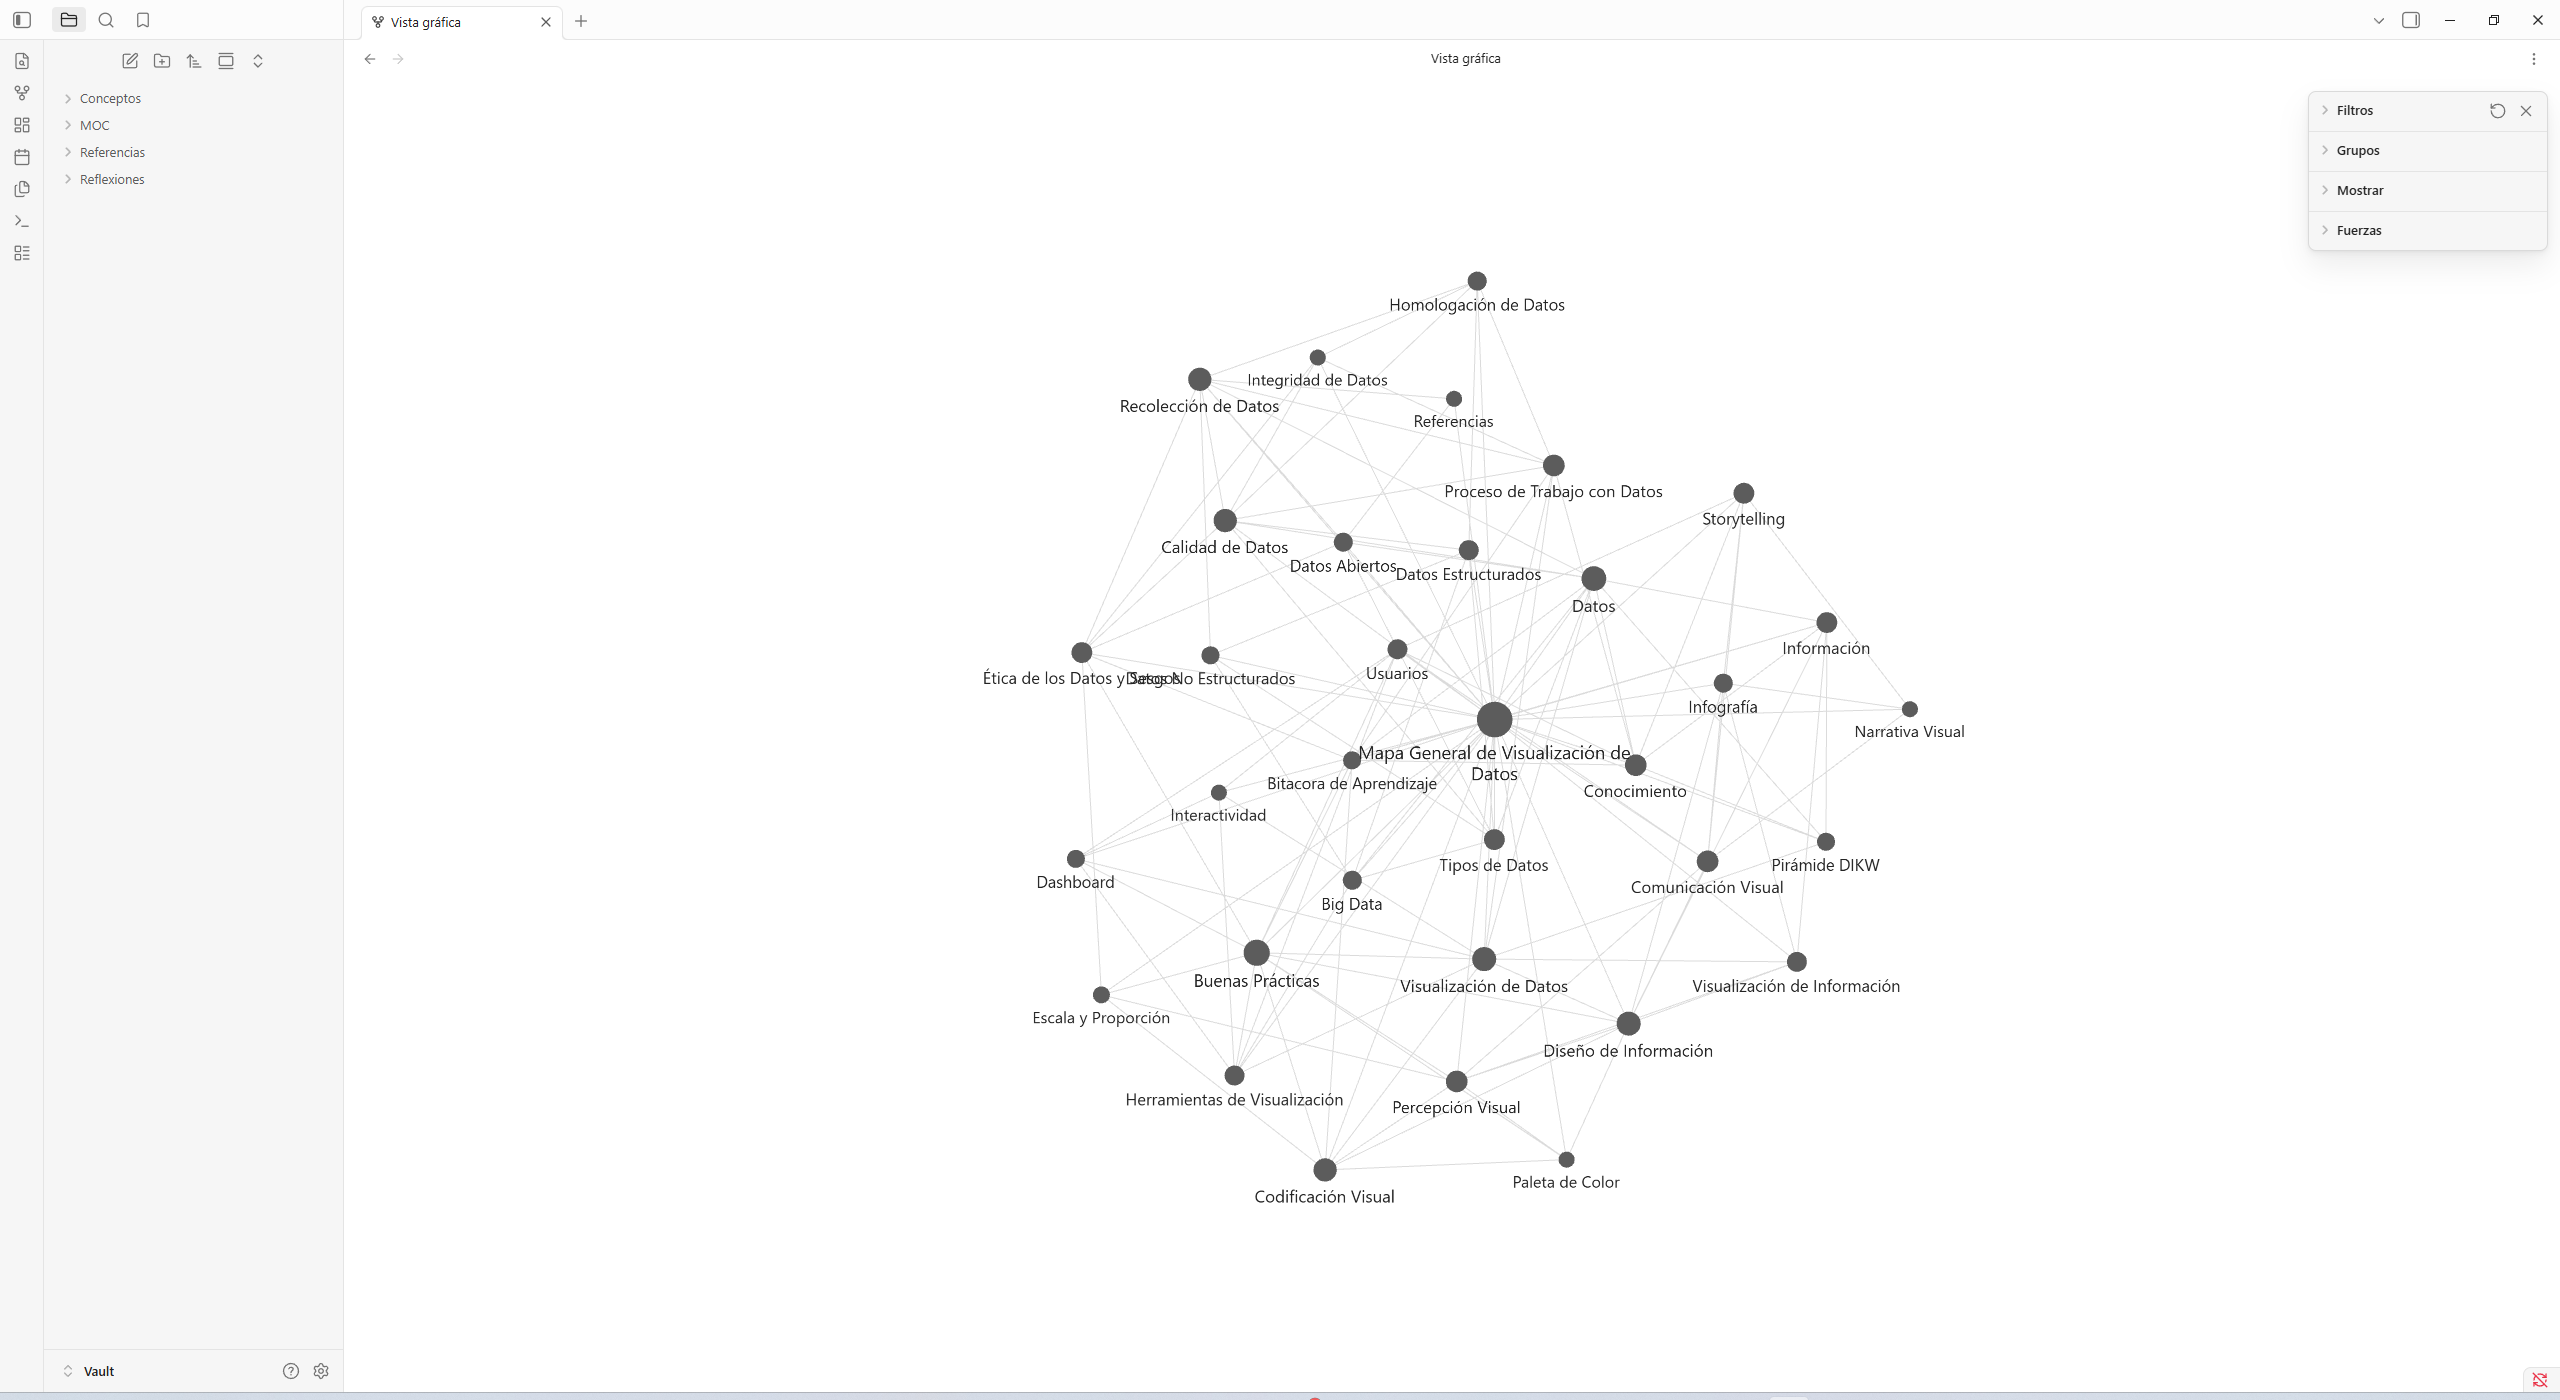
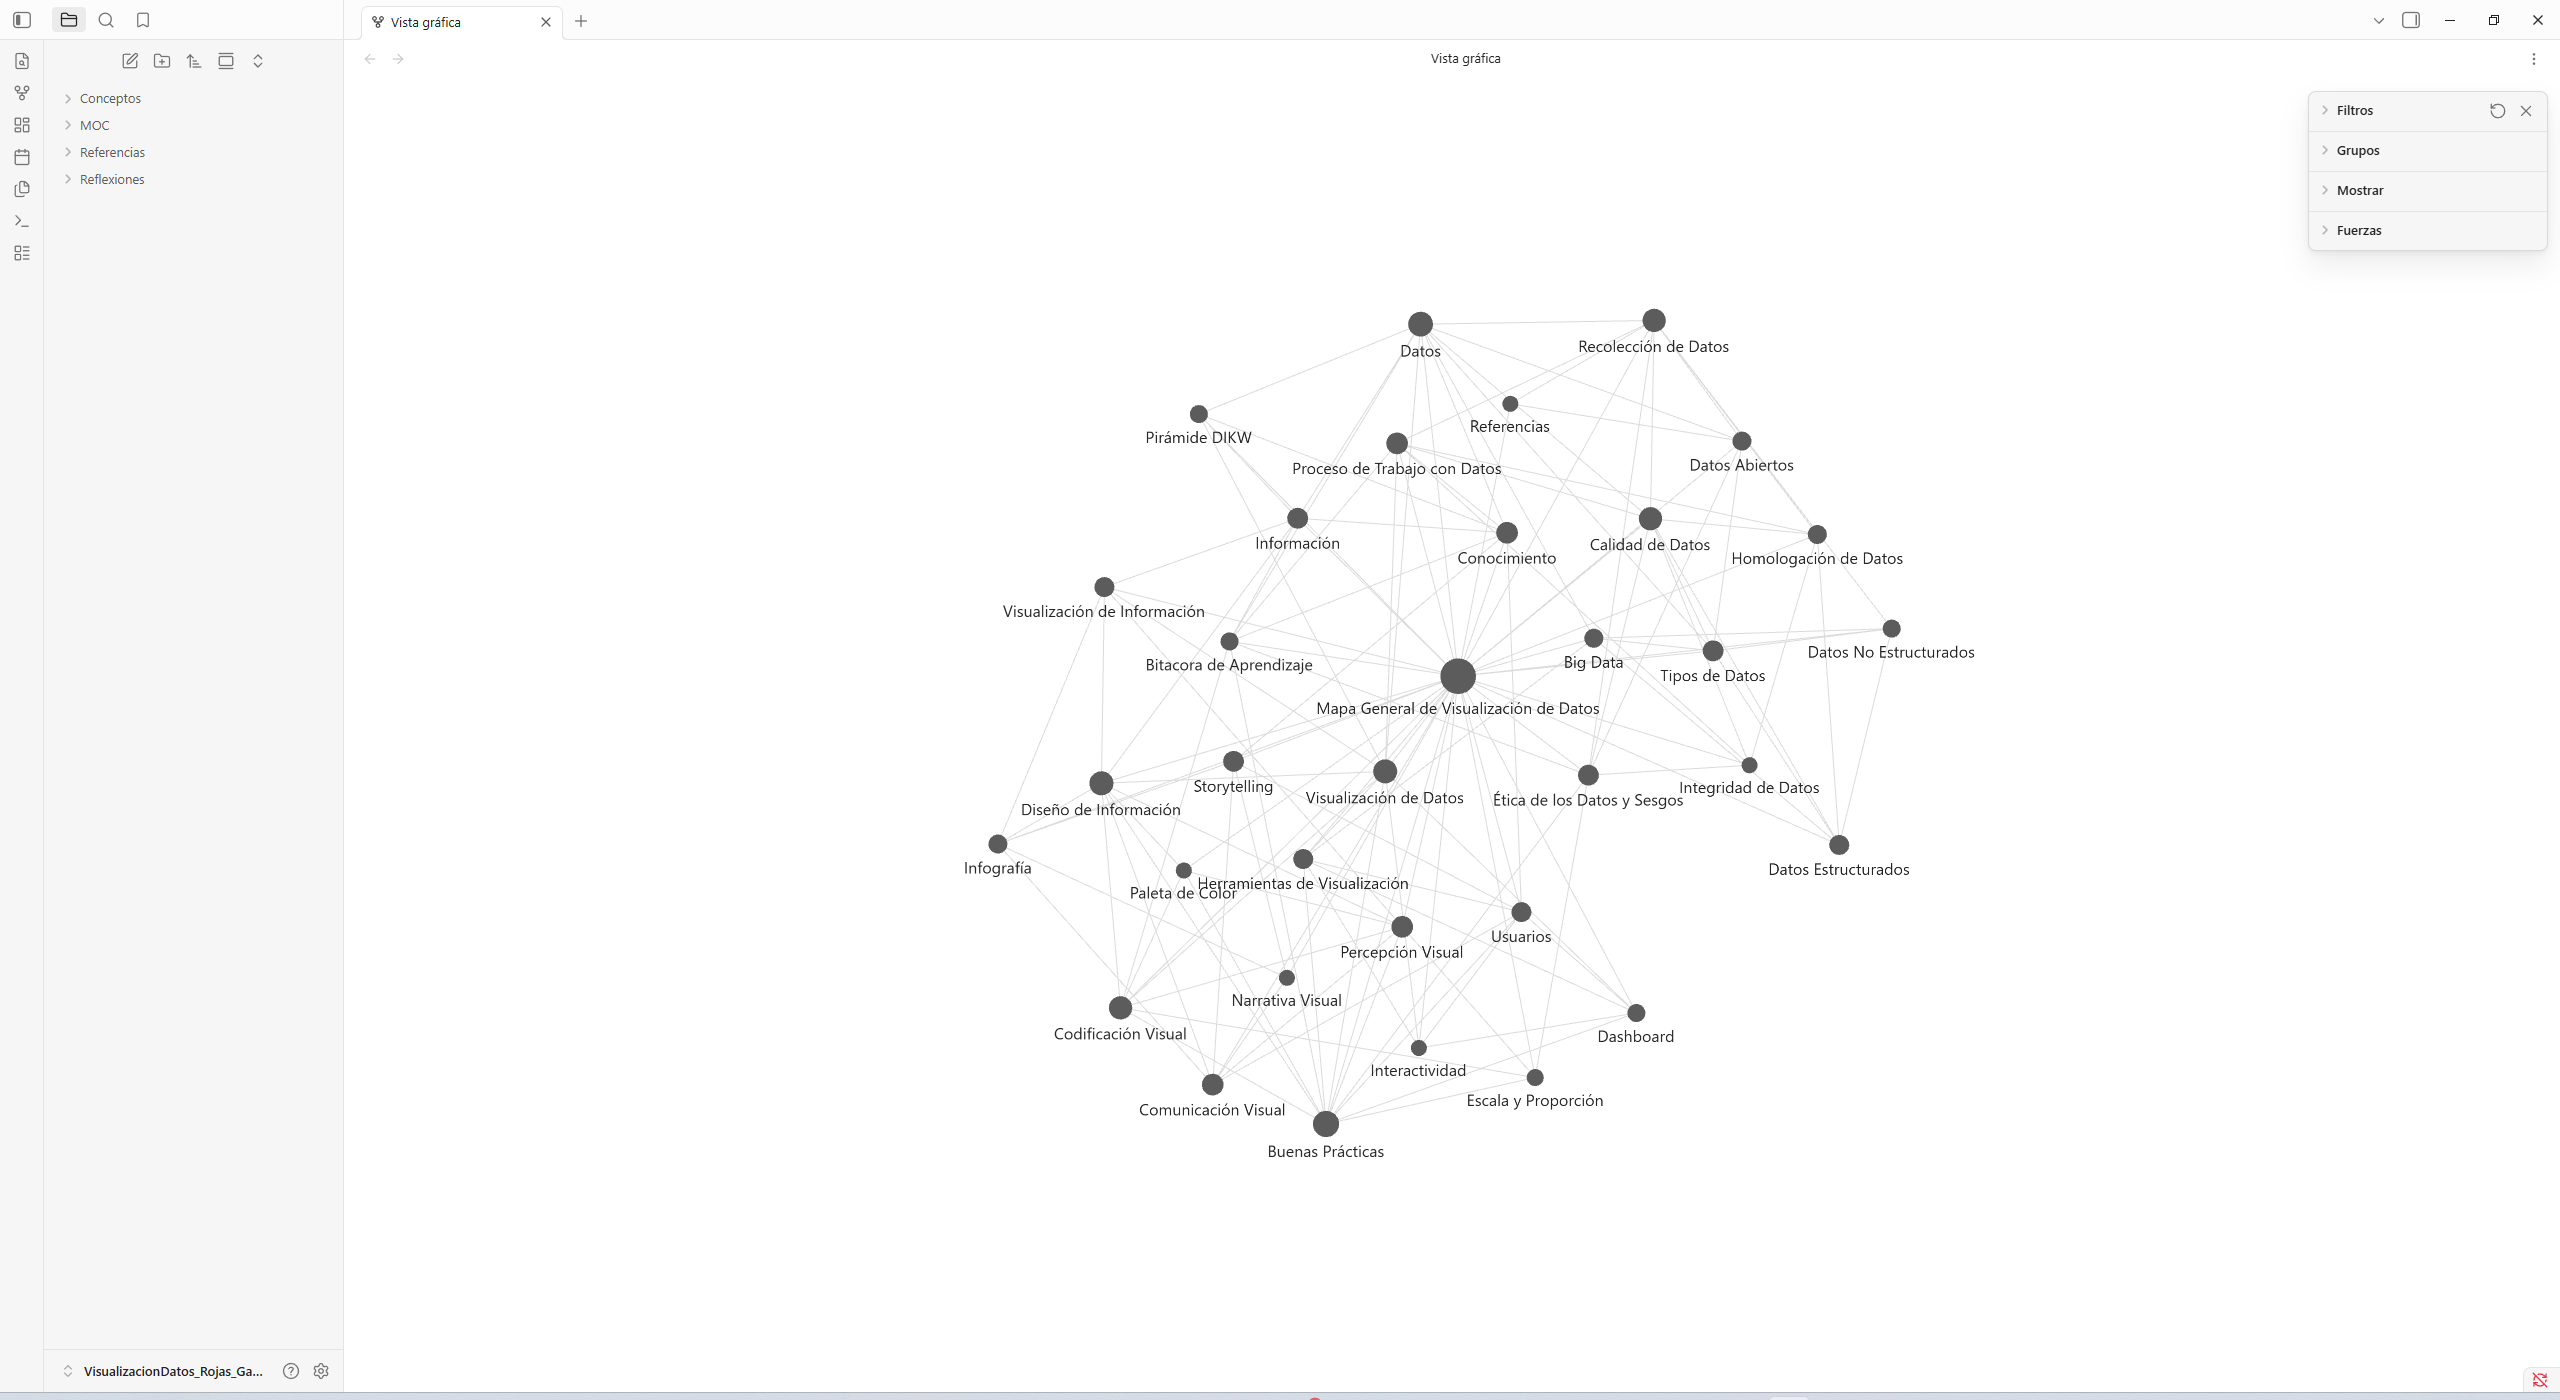
Renombra la bóveda de Obsidian a VisualizacionDatos_Rojas_Gabriel
El enunciado exige que la Vault se llame 'VisualizacionDatos_Apellido_Nombre'.
Se renombra la carpeta (antes 'Vault') y se actualizan las referencias
de ruta en README.md e Informe.md. Se reemplaza GraphView.png por una
nueva captura real de Obsidian que confirma el nombre correcto de la
bóveda en la esquina inferior izquierda, y se regenera Informe.pdf.

diff --git a/Informe/Informe.md b/Informe/Informe.md
@@ -135,7 +135,7 @@ Obsidian y GitHub resuelven dos problemas distintos pero complementarios dentro 
 
 **Organización del conocimiento.** A diferencia de un documento lineal (Word, Google Docs), Obsidian permite estructurar el conocimiento como una red de notas atómicas interconectadas mediante enlaces internos (`[[wikilinks]]`). En un proyecto de ciencia de datos esto es especialmente valioso porque los conceptos —variables, definiciones de negocio, decisiones de modelado, hallazgos exploratorios— rara vez son jerárquicos puros: una definición de "calidad de dato" se relaciona simultáneamamente con la fuente de origen, con el pipeline de limpieza y con el dashboard final. Un Mapa de Contenido (MOC), como el construido en esta evaluación, actúa como panel de navegación central sin forzar una única taxonomía rígida.
 
-**Trazabilidad del aprendizaje.** El Graph View de Obsidian y el historial de commits de GitHub cumplen, cada uno a su escala, la misma función: hacer visible el proceso, no solo el resultado. En este proyecto, la bitácora de aprendizaje (`Vault/Reflexiones`) documenta cómo evolucionó mi comprensión de los conceptos, mientras que el historial de commits documenta cuándo y en qué orden se construyó cada pieza, permitiendo a un evaluador —o a un futuro colaborador— reconstruir el razonamiento detrás de las decisiones tomadas.
+**Trazabilidad del aprendizaje.** El Graph View de Obsidian y el historial de commits de GitHub cumplen, cada uno a su escala, la misma función: hacer visible el proceso, no solo el resultado. En este proyecto, la bitácora de aprendizaje (`VisualizacionDatos_Rojas_Gabriel/Reflexiones`) documenta cómo evolucionó mi comprensión de los conceptos, mientras que el historial de commits documenta cuándo y en qué orden se construyó cada pieza, permitiendo a un evaluador —o a un futuro colaborador— reconstruir el razonamiento detrás de las decisiones tomadas.
 
 **Documentación técnica.** El formato Markdown, nativo en Obsidian y renderizado automáticamente por GitHub, evita la dependencia de herramientas propietarias para documentar decisiones técnicas, definiciones de datos o supuestos de un análisis, manteniendo la documentación versionable como si fuera código.
 

diff --git a/README.md b/README.md
@@ -22,7 +22,7 @@ Este repositorio contiene la evaluación sumativa de la Unidad 1: *Construcción
 ```
 visualizacion-datos-u1-rojas-gabriel/
 ├── README.md
-├── Vault/                      # Bóveda de Obsidian (VisualizacionDatos_Rojas_Gabriel)
+├── VisualizacionDatos_Rojas_Gabriel/   # Bóveda de Obsidian (Vault)
 │   ├── MOC/                    # Mapa General de Visualización de Datos (nodo central de navegación)
 │   ├── Conceptos/               # 31 notas conceptuales (Definición, Resumen Personal, Importancia, Relacionado con)
 │   ├── Referencias/              # Fuente bibliográfica y fuentes de datos utilizadas
@@ -44,7 +44,7 @@ visualizacion-datos-u1-rojas-gabriel/
 
 ![Graph View de la Vault](Evidencias/GraphView.png)
 
-> **Nota de trazabilidad:** captura real tomada desde la aplicación Obsidian (v1.13.7), abriendo `Vault/` como bóveda. Muestra las 34 notas interconectadas mediante enlaces `[[wikilink]]`, sin nodos aislados.
+> **Nota de trazabilidad:** captura real tomada desde la aplicación Obsidian (v1.13.7), abriendo `VisualizacionDatos_Rojas_Gabriel/` como bóveda. Muestra las 34 notas interconectadas mediante enlaces `[[wikilink]]`, sin nodos aislados.
 
 ## Aprendizajes Obtenidos
 
